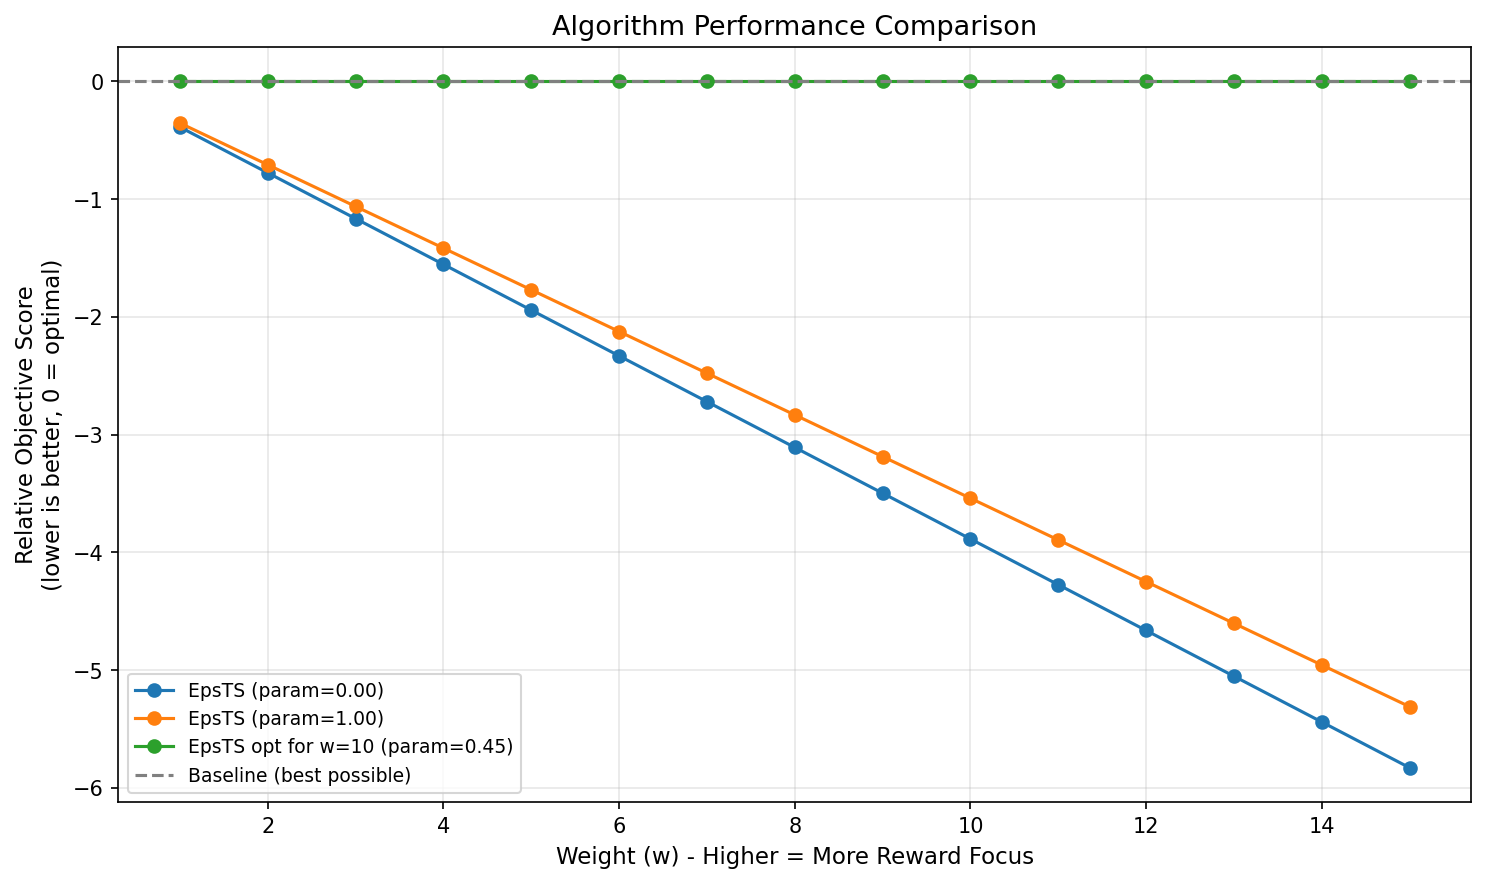
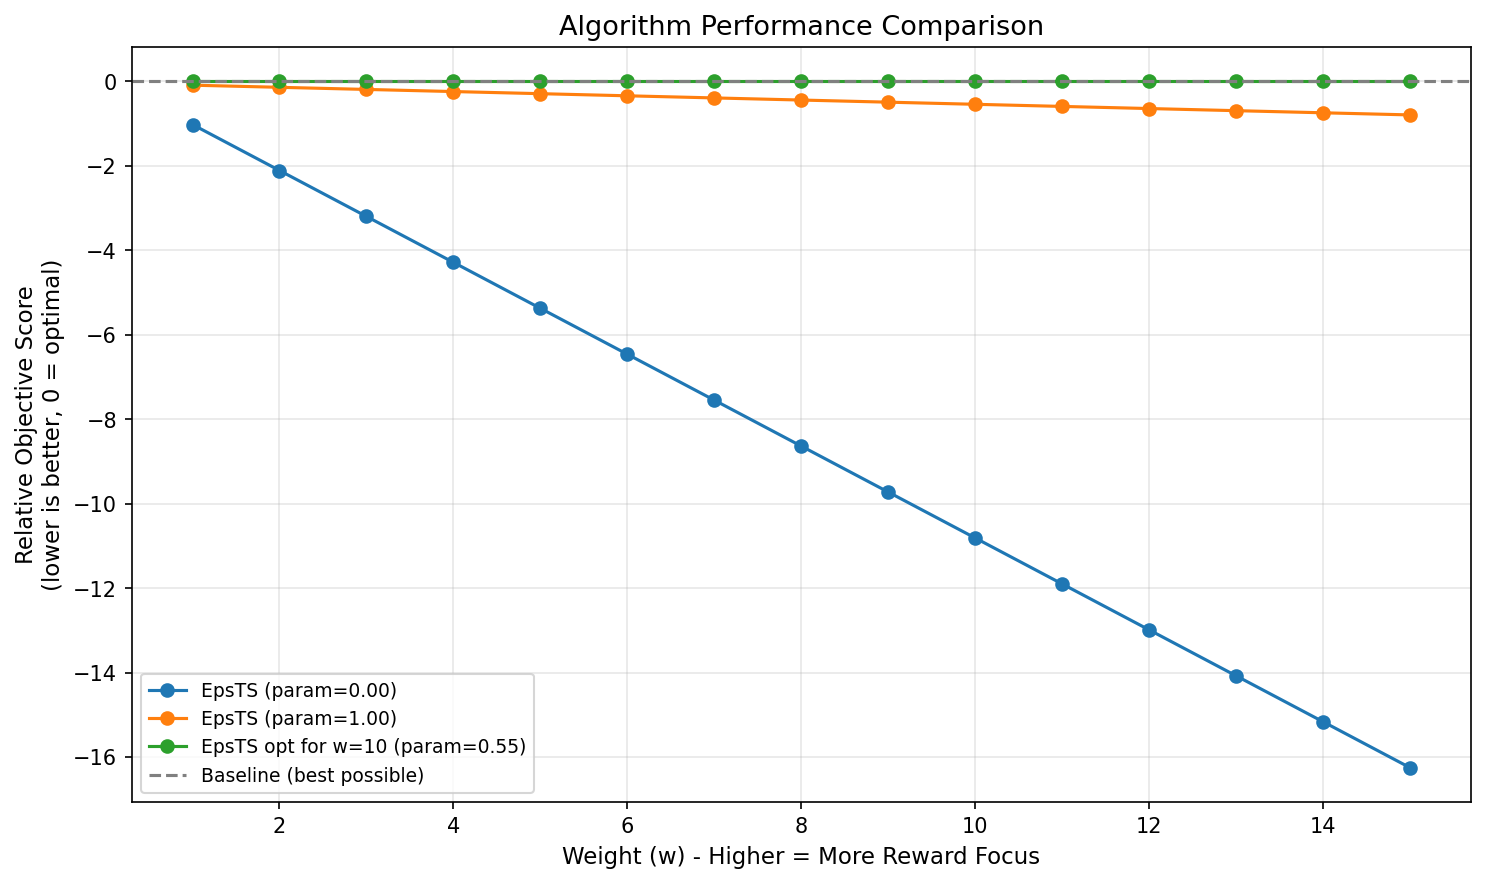
Fix: dynamically update plot when non-default w range input

diff --git a/templates/recommend.html b/templates/recommend.html
@@ -238,8 +238,12 @@
         const rawData = {{ chart_data_json | safe }};
         if (!rawData || rawData.length === 0) return;
 
-        const W_MIN = 1, W_MAX = 15;
-        const wValues = Array.from({length: W_MAX - W_MIN + 1}, (_, i) => i + W_MIN);
+        const W_MIN = 0, W_MAX = 0.06;
+        const numSteps = 20;
+        let wValues = [];
+        for (let i = 0; i <= numSteps; i++) {
+            wValues.push(parseFloat((W_MIN + (W_MAX - W_MIN) * (i / numSteps)).toFixed(4)));
+        }
 
         /* ── group rows by algorithm ── */
         const algorithms = {};
@@ -439,13 +443,13 @@
         }
 
         /* ── initialise ── */
-        var defaultW = 8;
+        var defaultW = 0.03;
         document.getElementById('wSlider').value = defaultW;
         updateForW(defaultW);
 
         /* ── slider event ── */
         document.getElementById('wSlider').addEventListener('input', function (e) {
-            updateForW(parseInt(e.target.value));
+            updateForW(parseFloat(e.target.value));
         });
 
         // Compute max reward (from pure-TS / param=0 row)
@@ -465,25 +469,28 @@
                 return;
             }
             
-            // 20 discrete values (5% step size)
-            const step = (wMax - wMin) / 20;
+            // 21 discrete values (ensures we include both endpoints)
+            const numSteps = 20;
             const newWValues = [];
-            for (let w = wMin; w <= wMax; w += step) {
-                newWValues.push(parseFloat(w.toFixed(2)));
+            for (let i = 0; i <= numSteps; i++) {
+                const w = wMin + (wMax - wMin) * (i / numSteps);
+                newWValues.push(parseFloat(w.toFixed(4)));
             }
+            const step = (wMax - wMin) / numSteps;
             
             // Update slider
             const slider = document.getElementById('wSlider');
             slider.min = wMin;
             slider.max = wMax;
             slider.step = step;
-            slider.value = (wMin + wMax) / 2; // Reset to midpoint
+            slider.value = (wMin + wMax) / 2;
             
-            // Update chart x-axis
-            chart.data.labels = newWValues;
+            // Update global wValues and chart x-axis
+            wValues = newWValues;
+            chart.data.labels = wValues;
             
             // Recompute baseline for new w values
-            newWValues.forEach(w => {
+            wValues.forEach(w => {
                 let max = -Infinity;
                 rawData.forEach(row => {
                     const obj = computeObjective(row.n_step, row.regret_per_step, w);
@@ -492,23 +499,42 @@
                 baseline[w] = max;
             });
             
-            // Update fixed datasets (param=0, param=1) for new w range
+            // Update fixed datasets (Pure-TS and Pure-UR)
             fixedDatasets.forEach((ds, idx) => {
-                const row = rawData.find(r => 
-                    (ds.label === 'Pure-TS' && r.algo_param === 0.0) ||
-                    (ds.label === 'Pure-UR' && r.algo_param === 1.0)
-                );
+                let row = null;
+                if (ds.label === 'Pure-TS') {
+                    row = rawData.find(r => r.algo_param === 0.0);
+                } else if (ds.label === 'Pure-UR') {
+                    row = rawData.find(r => r.algo_param === 1.0);
+                }
                 if (row) {
-                    chart.data.datasets[idx].data = newWValues.map(w => {
+                    chart.data.datasets[idx].data = wValues.map(w => {
                         const raw = computeObjective(row.n_step, row.regret_per_step, w);
                         return raw - baseline[w];
                     });
                 }
             });
             
+            // Update dynamic datasets (optimal curves)
+            algoNames.forEach((name, i) => {
+                const dsIdx = dynamicStartIdx + i;
+                const midW = (wMin + wMax) / 2;
+                const row = bestRowForW(algorithms[name], midW);
+                chart.data.datasets[dsIdx].data = wValues.map(w => {
+                    const raw = computeObjective(row.n_step, row.regret_per_step, w);
+                    return raw - baseline[w];
+                });
+            });
+            
+            // Update baseline line (y = 0)
+            const baselineIdx = allDatasets.length - 1;
+            chart.data.datasets[baselineIdx].data = wValues.map(() => 0);
+            
+            // Refresh chart and update recommendation
             chart.update();
             updateForW(parseFloat(slider.value));
         }
+
 
         document.getElementById('updateRange').addEventListener('click', updateWRange);    
 
